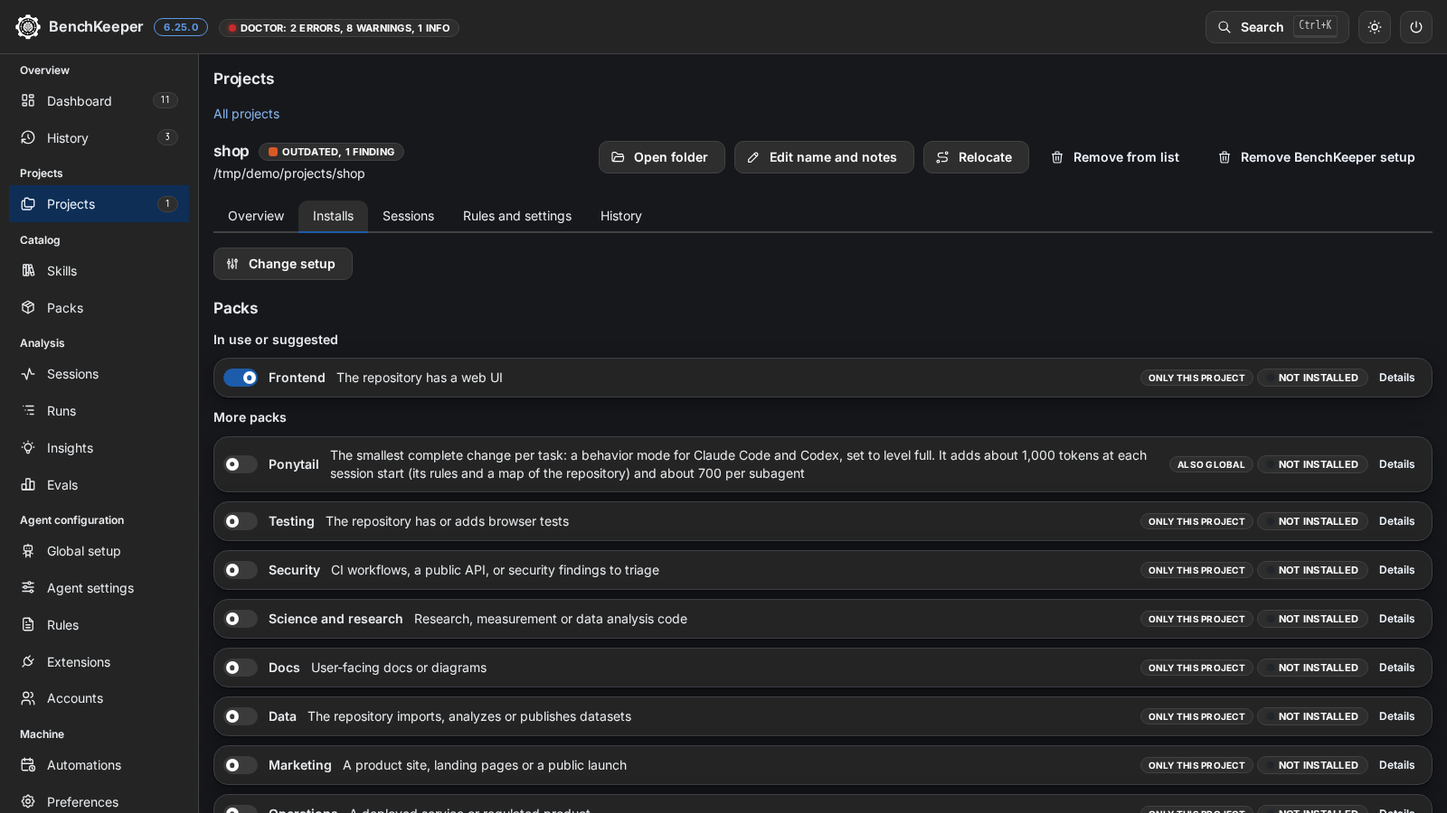
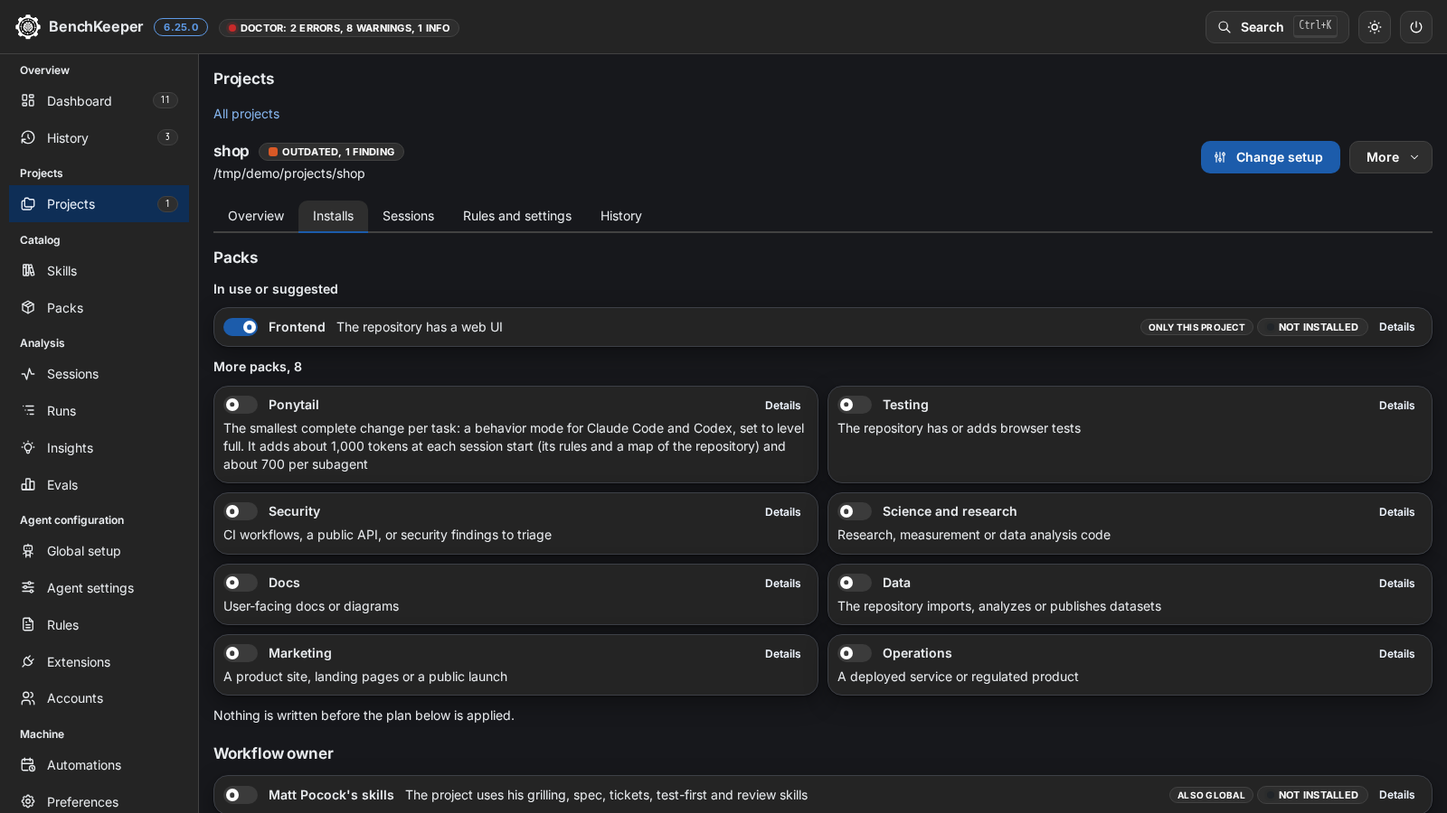
feat(app): group a project's packs into in use and more packs (#903)
* feat(app): group a project's packs into in use and more packs

The project page keeps Change setup as its one button and folds Open folder, Edit name and notes, Relocate and the two removals into a More menu. On the Installs tab the packs in use or suggested stay rows; the other packs are a two-column grid of cards (one column at phone width) with scope and state under Details. Pick B of the #414 design pass, round two.

* docs(app): regenerate the Projects site pictures for the grouped packs

* docs(app): Installs offers Set up only; Change setup is in the project header

Changed region(s): [[0.125, 0.3111, 1.0, 1.0], [0.4062, 0.1556, 1.0, 0.2178], [0.7812, 0.3733, 0.9688, 0.4978]]

diff --git a/app/ui/skillstates.jsx b/app/ui/skillstates.jsx
@@ -1,4 +1,4 @@
-import { Badge, Button, Group, Loader, Modal, Paper, Select, Stack, Switch, Table, Text, Title } from '@mantine/core';
+import { Badge, Button, Group, Loader, Modal, Paper, Select, SimpleGrid, Stack, Switch, Table, Text, Title } from '@mantine/core';
 import { useId, useRef, useState } from 'react';
 import { Plan, Section, StateBadge } from './parts.jsx';
 import { Loading, Note, icon, useApi } from './shell.jsx';
@@ -12,7 +12,7 @@ const short = (ref) => ref?.slice(0, 12);
 // and the five facts of the explainer (summary, plain words, impact, default, current). A row with `details` (a pack: the
 // accessible name of its Details button) is one line, the summary beside the switch, the other facts shown on Details. A
 // busy switch ignores clicks but stays focusable (a disabled input loses the keyboard focus).
-export function InstallRow({ label, checked, onChange, disabled, busy, hint, state, fixed = [], facts, why, details }) {
+export function InstallRow({ label, checked, onChange, disabled, busy, hint, state, fixed = [], facts, why, details, card }) {
   const [open, setOpen] = useState(false);
   const id = useId();
   const toggle = <Switch checked={checked} onChange={busy ? () => {} : onChange} disabled={disabled} aria-disabled={busy || undefined} style={busy ? { opacity: 0.6 } : undefined} label={label} />;
@@ -27,7 +27,15 @@ export function InstallRow({ label, checked, onChange, disabled, busy, hint, sta
   return (
     <Paper withBorder p="xs">
       <Stack gap={4}>
-        {details ? (
+        {details && card ? (
+          <>
+            <Group justify="space-between" gap="xs" wrap="nowrap" align="flex-start">
+              <div style={{ overflowWrap: 'anywhere' }}>{toggle}</div>
+              <Button size="compact-xs" variant="subtle" aria-label={details} aria-expanded={open} aria-controls={id} onClick={() => setOpen((o) => !o)}>Details</Button>
+            </Group>
+            <Text size="sm">{facts.summary}</Text>
+          </>
+        ) : details ? (
           <Group justify="space-between" gap="xs">
             <Group gap="sm" style={{ flex: '1 1 320px', overflowWrap: 'anywhere' }}>{toggle}<Text size="sm" style={{ flex: '1 1 260px' }}>{facts.summary}</Text></Group>
             <Group gap={4}>{chips}<Button size="compact-xs" variant="subtle" aria-label={details} aria-expanded={open} aria-controls={id} onClick={() => setOpen((o) => !o)}>Details</Button></Group>
@@ -38,7 +46,7 @@ export function InstallRow({ label, checked, onChange, disabled, busy, hint, sta
         {why && <Text size="xs">Fixed: {why}.</Text>}
         {fixed.map((f) => <Text key={f.agent} size="xs">{f.agent}: {f.scope === 'global' ? 'also global' : 'only this project'}, fixed: {f.reason}.</Text>)}
         {details ? (
-          open && <Stack id={id} gap={0} style={{ overflowWrap: 'anywhere' }}>{more}</Stack>
+          open && <Stack id={id} gap={4} style={{ overflowWrap: 'anywhere' }}>{card && chips}{more}</Stack>
         ) : (
           <Stack gap={0} style={{ overflowWrap: 'anywhere' }}>
             <Text size="xs">{facts.summary}</Text>
@@ -73,18 +81,19 @@ export function PackSwitches({ packs, project, others, toggles, setToggles, busy
   // Grouped by the saved setup and the repository's hints, not by the switch, so a switch never moves on a click.
   const near = (p) => (project.packs ?? []).includes(p.id) || p.suggested;
   const rest = packs.filter((p) => !p.owner), owners = packs.filter((p) => p.owner);
-  const groups = [['In use or suggested', rest.filter(near)], ['More packs', rest.filter((p) => !near(p))]].filter(([, list]) => list.length);
-  const row = (p, eli5) => (
-    <InstallRow key={p.id} details={`Details of ${p.title}`} checked={p.enabled} onChange={() => flip(p)} busy={busy} hint={p.hint} state={p.state} fixed={p.fixed} facts={packFacts(p, eli5)}
+  const more = rest.filter((p) => !near(p));
+  const groups = [['In use or suggested', rest.filter(near), false], [`More packs, ${more.length}`, more, true]].filter(([, list]) => list.length);
+  const row = (p, eli5, card) => (
+    <InstallRow key={p.id} card={card} details={`Details of ${p.title}`} checked={p.enabled} onChange={() => flip(p)} busy={busy} hint={p.hint} state={p.state} fixed={p.fixed} facts={packFacts(p, eli5)}
       label={<Group gap="xs"><Text fw={600} size="sm">{p.title}</Text>{p.suggested && <Badge variant="default" size="sm">suggested</Badge>}</Group>} />
   );
   return (
     <>
       <Section title="Packs">
-        {groups.map(([group, list], g) => (
-          <div key={group} role="group" aria-labelledby={`packs-${g}`}>
+        {groups.map(([group, list, grid], g) => (
+          <div key={g} role="group" aria-labelledby={`packs-${g}`}>
             <Text id={`packs-${g}`} size="sm" fw={600} mb="xs">{group}</Text>
-            <Stack gap="xs">{list.map((p) => row(p))}</Stack>
+            {grid ? <SimpleGrid cols={{ base: 1, sm: 2 }} spacing="xs">{list.map((p) => row(p, undefined, true))}</SimpleGrid> : <Stack gap="xs">{list.map((p) => row(p))}</Stack>}
           </div>
         ))}
         {!!sources.length && <Select label="Copy packs from project" placeholder="Choose a project" clearable disabled={busy} maw={360} data={sources.map((o) => ({ value: o.path, label: `${label(o)}: ${o.packs.join(', ') || 'no packs'}` }))} onChange={copyFrom} />}

diff --git a/app/ui/project.jsx b/app/ui/project.jsx
@@ -1,6 +1,6 @@
 // A project's own page (#/projects/<folder>/<tab>): the header with name, health and folder, and one tab per part.
-import { Anchor, Button, Code, Group, List, SimpleGrid, Stack, Tabs, Text, Title } from '@mantine/core';
-import { IconAdjustments, IconFolderOpen, IconListCheck, IconListNumbers, IconPencil, IconRoute, IconTrash } from '@tabler/icons-react';
+import { Anchor, Button, Code, Group, List, Menu, SimpleGrid, Stack, Tabs, Text, Title } from '@mantine/core';
+import { IconAdjustments, IconChevronDown, IconFolderOpen, IconListCheck, IconListNumbers, IconPencil, IconRoute, IconTrash } from '@tabler/icons-react';
 import { useEffect, useRef, useState } from 'react';
 import { api } from './api.js';
 import { label, lags } from './cards.js';
@@ -60,11 +60,18 @@ function ProjectPage({ rest, params, overview, history, refresh }) {
               {p.notes && <Text size="sm" style={{ whiteSpace: 'pre-wrap' }}>{p.notes}</Text>}
             </Stack>
             <Group gap="xs">
-              {live && <Button leftSection={icon(IconFolderOpen)} variant="default" onClick={() => api('/api/reveal', { path: p.path }).then(() => setRevealError(null), (e) => setRevealError(e.message))}>Open folder</Button>}
-              <Button leftSection={icon(IconPencil)} variant="default" onClick={() => setForm('edit')}>Edit name and notes</Button>
-              <Button leftSection={icon(IconRoute)} variant="default" onClick={() => setForm('relocate')}>Relocate</Button>
-              <Button leftSection={icon(IconTrash)} variant="subtle" onClick={() => setDialog('list')}>Remove from list</Button>
-              {live && p.checkout && <Button leftSection={icon(IconTrash)} variant="subtle" onClick={() => setDialog('setup')}>Remove BenchKeeper setup</Button>}
+              {live && p.setupVersion && !lags(p) && <Button leftSection={icon(IconAdjustments)} onClick={() => setDialog('setup-run')}>Change setup</Button>}
+              <Menu position="bottom-end" withinPortal={false} withInitialFocusPlaceholder={false}>
+                <Menu.Target><Button variant="default" rightSection={icon(IconChevronDown, 14)}>More</Button></Menu.Target>
+                <Menu.Dropdown>
+                  {live && <Menu.Item leftSection={icon(IconFolderOpen)} onClick={() => api('/api/reveal', { path: p.path }).then(() => setRevealError(null), (e) => setRevealError(e.message))}>Open folder</Menu.Item>}
+                  <Menu.Item leftSection={icon(IconPencil)} onClick={() => setForm('edit')}>Edit name and notes</Menu.Item>
+                  <Menu.Item leftSection={icon(IconRoute)} onClick={() => setForm('relocate')}>Relocate</Menu.Item>
+                  <Menu.Divider />
+                  <Menu.Item c="light-dark(var(--mantine-color-red-9), var(--mantine-color-red-3))" leftSection={icon(IconTrash)} onClick={() => setDialog('list')}>Remove from list</Menu.Item>
+                  {live && p.checkout && <Menu.Item c="light-dark(var(--mantine-color-red-9), var(--mantine-color-red-3))" leftSection={icon(IconTrash)} onClick={() => setDialog('setup')}>Remove BenchKeeper setup</Menu.Item>}
+                </Menu.Dropdown>
+              </Menu>
             </Group>
           </Group>
           {revealError && <Note color="red" title="Open folder failed">{revealError}</Note>}
@@ -154,7 +161,6 @@ function Installs({ project, others, onDone, onSetup }) {
   if (lags(project)) return <Text>Setup {project.setupVersion} is on <Code>{project.origin}</Code>; this checkout has {project.checkout ? `setup ${project.checkout}` : 'no state file'}. Pull <Code>{project.origin}</Code> to see or change the setup here.</Text>;
   return (
     <Stack gap="lg">
-      <Group><Button leftSection={icon(IconAdjustments)} variant="default" onClick={onSetup}>Change setup</Button></Group>
       {applied ? (
         <Section title="Changes">
           <Group justify="space-between"><Button leftSection={icon(IconListCheck)} variant="default" onClick={() => setApplied(null)}>Plan again</Button><Anchor href={projectHref(project.path, 'history', { run: applied.id })}>Open in History</Anchor></Group>

diff --git a/app/README.md b/app/README.md
@@ -172,7 +172,7 @@ The sidebar groups the views: Overview (Dashboard, History), Projects (Projects)
 | View | Contents |
 |---|---|
 | Dashboard | from the top: the status panel (the count of items that need attention with the global setup and each project it counts as links, the projects that cannot be read, Fix everything, and the Set up menu with Set up everything, Set up global only and Set up projects) and the Doctor findings strip (the count of findings, linked to the Doctor section, with the count by level); Health, one bar of item states (current, modified, outdated, missing, removed, foreign, and untracked for a skill folder in a project that BenchKeeper did not install) with each count a link to what it counts; Where, one state bar per scope (the global setup and every project) with its counts and packs; Doctor, the three worst findings, errors first, one line each with its action, and a link to all of them in Insights; folded below them, every finding with the action that fixes one (Plan fix, Review removal, Open settings or Plan project) or the fix by hand, a link to the source a fix names, each run id a finding names linked to History, and Dismiss on a finding that is an opinion; "Dismissed (n)" lists the dismissed findings and declined changes with Show again; Recent runs, the last 6. Folded under "More about the setup": the Setup flow, the install level and what the next adds, the BenchKeeper plugin per agent, the installed skills and packs (global and per project), coverage (the projects that chose each pack, per agent; skills that exist for one agent only are marked; packs no project chose are one line of links), the catalog by pack as a sorted bar list, and the global setup by part and agent (a cell opens that agent's plan). Every figure links to the Global setup, Projects or Catalog view it counts, which opens filtered (Projects by pack and agent, Catalog by pack and agent). One-run setup (buttons on the Dashboard, entries in the command palette): Set up everything, Set up global only or Set up projects, with a level choice for the global setup and a checklist of the projects Update all does not leave alone (a shared setup, one still committed or no repository stay with Update all). One start form and one consent for the agent suggestion sessions (read only, one at a time) of the projects without a setup; one progress bar with a line per item (waiting, running, ready, failed with the reason, cancelled); one review page with a section for the global plan and one per project, a checkbox per section and per change, each diff behind a button, and the project's answers (agents, environment, packs, tier) editable in place, which builds its plan again; then one apply job with progress per section and a link to each run in History for undo. A failed suggestion or plan shows its reason and leaves the rest, a failed section leaves the others. Cancel during preparation stops the running suggestion session and keeps what is ready for review; during the apply it stops after the change that runs. Fix everything walks through four steps (the global plan, the projects behind or with pending changes, none checked at first, the doctor findings left to do by hand, a summary) and then applies the global plan and runs Update all for each checked project; "Stop after this project" skips the rest. A global setup that fails or is cancelled leaves the projects unless you start them anyway; the doctor runs again at the end. It stays open over other views until the run is over |
-| Projects | registered projects as cards (the default) or a table, the choice kept in the browser. A card: name and folder (cut at its start), a health dot (in sync, outdated, modified, folder not found, not set up) with the count of doctor findings, the setup in one line (agents, default tier, workflow owner) with its packs, sessions per day of the last 30 days as a bar graph with a text alternative (all agents and the repository's worktrees; the total with its change against the previous 30 days, the cost with the count of sessions without one, the last session and its tier), and Details, Open board (the Sessions view), Set up or Apply (the project's plan), Update and Remove setup. The name or Details opens the project's page: name, health dot and folder, Open folder, Edit name and notes, Relocate and the two removals, and the tabs Overview (the card's facts, its items by state, the project doctor), Installs (one switch each for packs, the workflow owner, skills and agent files, with a scope hint: only this project or also global, a scope an agent fixes with its reason, the state on disk, and summary, plain words, impact, default and current; a read-only block of what the global setup makes active here (global packs the project does not select, the BenchKeeper plugin, global skills) with a link to Global setup; the plan below, which alone changes the project, with its diff and undo; Set up or Change setup; Skill states: each skill of the project with its state, commit installed and, after Check for updates, the source's newest, a switch to deactivate and activate, Update, Reset, Remove, filter by state, each action opening its plan with the diff, then apply and undo, and untracked folders with Adopt for library skills, left alone otherwise), Sessions (the board with only its sessions), Rules and settings (its instruction files and its project and local settings files) and History (its runs). Above them the totals of the projects shown (projects, in sync, need attention, sessions in the last 7 days) and one health bar. The table: one row each: name and tree state, then path (cut at its start) and branch; one setup status (current, behind or not set up, and local or shared); skills each session of a chosen agent loads (the project's own with its global and plugin skills); pending changes; on the project's page its plan, pack switches (the packs in use or suggested by its files first, then the others, each with when to pick it; with Copy packs from project; the preview lists the skills a pack takes along or removes), skill switches and doctor findings; add (another worktree of a registered repository is offered, not added; a folder inside a project is flagged), scan a parent folder, New from preset (starts a new folder from a saved preset, shows the plan, registers the folder and then recommends skills to turn off and packs to add, none chosen), search, filter chips (needs attention, no setup, folder not found, each pack and agent in use; every chip on must hold) and a sort (name, health, last change), display name and notes, Relocate for a folder that moved (a missing folder shows Folder not found with Relocate and Remove), Remove from list and Remove BenchKeeper setup (every file listed first; a local setup is a run with undo in History, a shared one a commit on a local branch), the same four plus Update and Set up for several selected projects at once (the bar shows only with a selection) with one confirmation naming the count, Update all with progress per project and, per committed branch, the command that pushes it. A project without a state file is set up step by step (agents with where the setup lives: on this machine, the default, or in the repository as a local branch with one commit, which you push; environment with the dev container as default, packs and skills with suggestions from its files, tier, review), one project after the other; Prefill all with an agent, on the first project of a batch, runs one suggestion session per project after one consent, one at a time with a state per project (waiting, running, ready, failed, cancelled); each project's steps then start from its suggestion, still reviewed and applied one by one (a reload loses suggestions not yet used). Change setup reopens these steps from the state file; Open folder shows the project in the file manager. Suggest with an agent asks first, then runs one read-only session (Claude Code `-p --restricted --strict-mcp-config` with Read, Grep and Glob; Codex `exec` with a permission profile that reads only the project, the system's minimal paths and Codex itself, writes nothing, and runs without web search and MCP servers) in the project on your subscription; only library packs, skills and environments from its answer are taken. The steps only the user can start (the setup skill session, a pack's own setup) show in the review step, the result step and the project doctor as a Start in a terminal block: agent, project folder and the full `benchkeeper sessions record --project <dir> -- <agent> '<prompt>'` line with Copy. The app does not run the command: paste it in your own terminal; the recorded run shows in History with its exit code and changed files, and Check again reads the project doctor again, whose warning is gone once the files the step writes exist |
+| Projects | registered projects as cards (the default) or a table, the choice kept in the browser. A card: name and folder (cut at its start), a health dot (in sync, outdated, modified, folder not found, not set up) with the count of doctor findings, the setup in one line (agents, default tier, workflow owner) with its packs, sessions per day of the last 30 days as a bar graph with a text alternative (all agents and the repository's worktrees; the total with its change against the previous 30 days, the cost with the count of sessions without one, the last session and its tier), and Details, Open board (the Sessions view), Set up or Apply (the project's plan), Update and Remove setup. The name or Details opens the project's page: name, health dot and folder, Change setup, a More menu with Open folder, Edit name and notes, Relocate and the two removals, and the tabs Overview (the card's facts, its items by state, the project doctor), Installs (one switch each for packs (in use or suggested as rows, the others as a two-column grid with scope and state under Details), the workflow owner, skills and agent files, with a scope hint: only this project or also global, a scope an agent fixes with its reason, the state on disk, and summary, plain words, impact, default and current; a read-only block of what the global setup makes active here (global packs the project does not select, the BenchKeeper plugin, global skills) with a link to Global setup; the plan below, which alone changes the project, with its diff and undo; Set up (when the project has no setup yet); Skill states: each skill of the project with its state, commit installed and, after Check for updates, the source's newest, a switch to deactivate and activate, Update, Reset, Remove, filter by state, each action opening its plan with the diff, then apply and undo, and untracked folders with Adopt for library skills, left alone otherwise), Sessions (the board with only its sessions), Rules and settings (its instruction files and its project and local settings files) and History (its runs). Above them the totals of the projects shown (projects, in sync, need attention, sessions in the last 7 days) and one health bar. The table: one row each: name and tree state, then path (cut at its start) and branch; one setup status (current, behind or not set up, and local or shared); skills each session of a chosen agent loads (the project's own with its global and plugin skills); pending changes; on the project's page its plan, pack switches (the packs in use or suggested by its files first, then the others, each with when to pick it; with Copy packs from project; the preview lists the skills a pack takes along or removes), skill switches and doctor findings; add (another worktree of a registered repository is offered, not added; a folder inside a project is flagged), scan a parent folder, New from preset (starts a new folder from a saved preset, shows the plan, registers the folder and then recommends skills to turn off and packs to add, none chosen), search, filter chips (needs attention, no setup, folder not found, each pack and agent in use; every chip on must hold) and a sort (name, health, last change), display name and notes, Relocate for a folder that moved (a missing folder shows Folder not found with Relocate and Remove), Remove from list and Remove BenchKeeper setup (every file listed first; a local setup is a run with undo in History, a shared one a commit on a local branch), the same four plus Update and Set up for several selected projects at once (the bar shows only with a selection) with one confirmation naming the count, Update all with progress per project and, per committed branch, the command that pushes it. A project without a state file is set up step by step (agents with where the setup lives: on this machine, the default, or in the repository as a local branch with one commit, which you push; environment with the dev container as default, packs and skills with suggestions from its files, tier, review), one project after the other; Prefill all with an agent, on the first project of a batch, runs one suggestion session per project after one consent, one at a time with a state per project (waiting, running, ready, failed, cancelled); each project's steps then start from its suggestion, still reviewed and applied one by one (a reload loses suggestions not yet used). Change setup reopens these steps from the state file; Open folder shows the project in the file manager. Suggest with an agent asks first, then runs one read-only session (Claude Code `-p --restricted --strict-mcp-config` with Read, Grep and Glob; Codex `exec` with a permission profile that reads only the project, the system's minimal paths and Codex itself, writes nothing, and runs without web search and MCP servers) in the project on your subscription; only library packs, skills and environments from its answer are taken. The steps only the user can start (the setup skill session, a pack's own setup) show in the review step, the result step and the project doctor as a Start in a terminal block: agent, project folder and the full `benchkeeper sessions record --project <dir> -- <agent> '<prompt>'` line with Copy. The app does not run the command: paste it in your own terminal; the recorded run shows in History with its exit code and changed files, and Check again reads the project doctor again, whose warning is gone once the files the step writes exist |
 | Skills | the Catalog's library skills and your own (marked "yours") with filters (`skills list --library`), skill detail with eval results (`skills show`), pack builder (`packs save`, warns about overlapping descriptions). New skill, and Edit and Remove on one of yours, open its `SKILL.md` text and show the plan with its diff (`skills new`, `skills edit`, `skills delete`). A skill's state in a project is on the project's page |
 | Packs | the Catalog's library packs and own packs with the projects that use them (`packs list`, `packs show`), export, import (asks before it replaces an own pack, the old file goes to `backup/packs/`) and removal (off while a project uses the pack). A pack is defined once and switched on per project, on the project's Installs tab (`packs enable --project`) |
 | Global setup | only global things: detected agents; what is installed globally by part (plugins and packs, skills, rules, settings, machine tools, other), each part with its count, the items that need attention and its state per item behind Show items, and a link to the view that edits it (Extensions, Rules, Agent settings); a link to Accounts; the line "Per-project setup lives in each project" with a link to Projects (per-project controls are in a project's Installs tab); and the global plan for the chosen agents. A skills CLI install in a plan (here, in a project's plan and in setup review) runs first, on a click, in a scratch folder with its own `HOME` and `CODEX_HOME`, `CLAUDE_CONFIG_DIR` and `XDG_*` unset, so the plan shows the files it would write (mapped back to the folders those variables point to); links are copied as what they point to, npm uses a scratch cache and your `.npmrc` without credentials, git an empty config. It runs inside an OS sandbox (`srt`; bubblewrap on Linux and WSL2 and `sandbox-exec` on macOS confine writes only where `srt` cannot run) that stops a write outside the scratch folder and, with `srt`, limits the network to the registry, GitHub and your registry host. Where none starts (Windows has none) the preview is off and says why; "Rehearse anyway without a sandbox" runs it with the scratch `HOME` only. `doctor` names what to install. Three run at a time; a result is kept 10 minutes or until the app changes files, and an apply stops a rehearsal still running. Apply shows each change as it runs, with the command output, then the run report in place of the plan. Cancel skips the changes not started yet |
